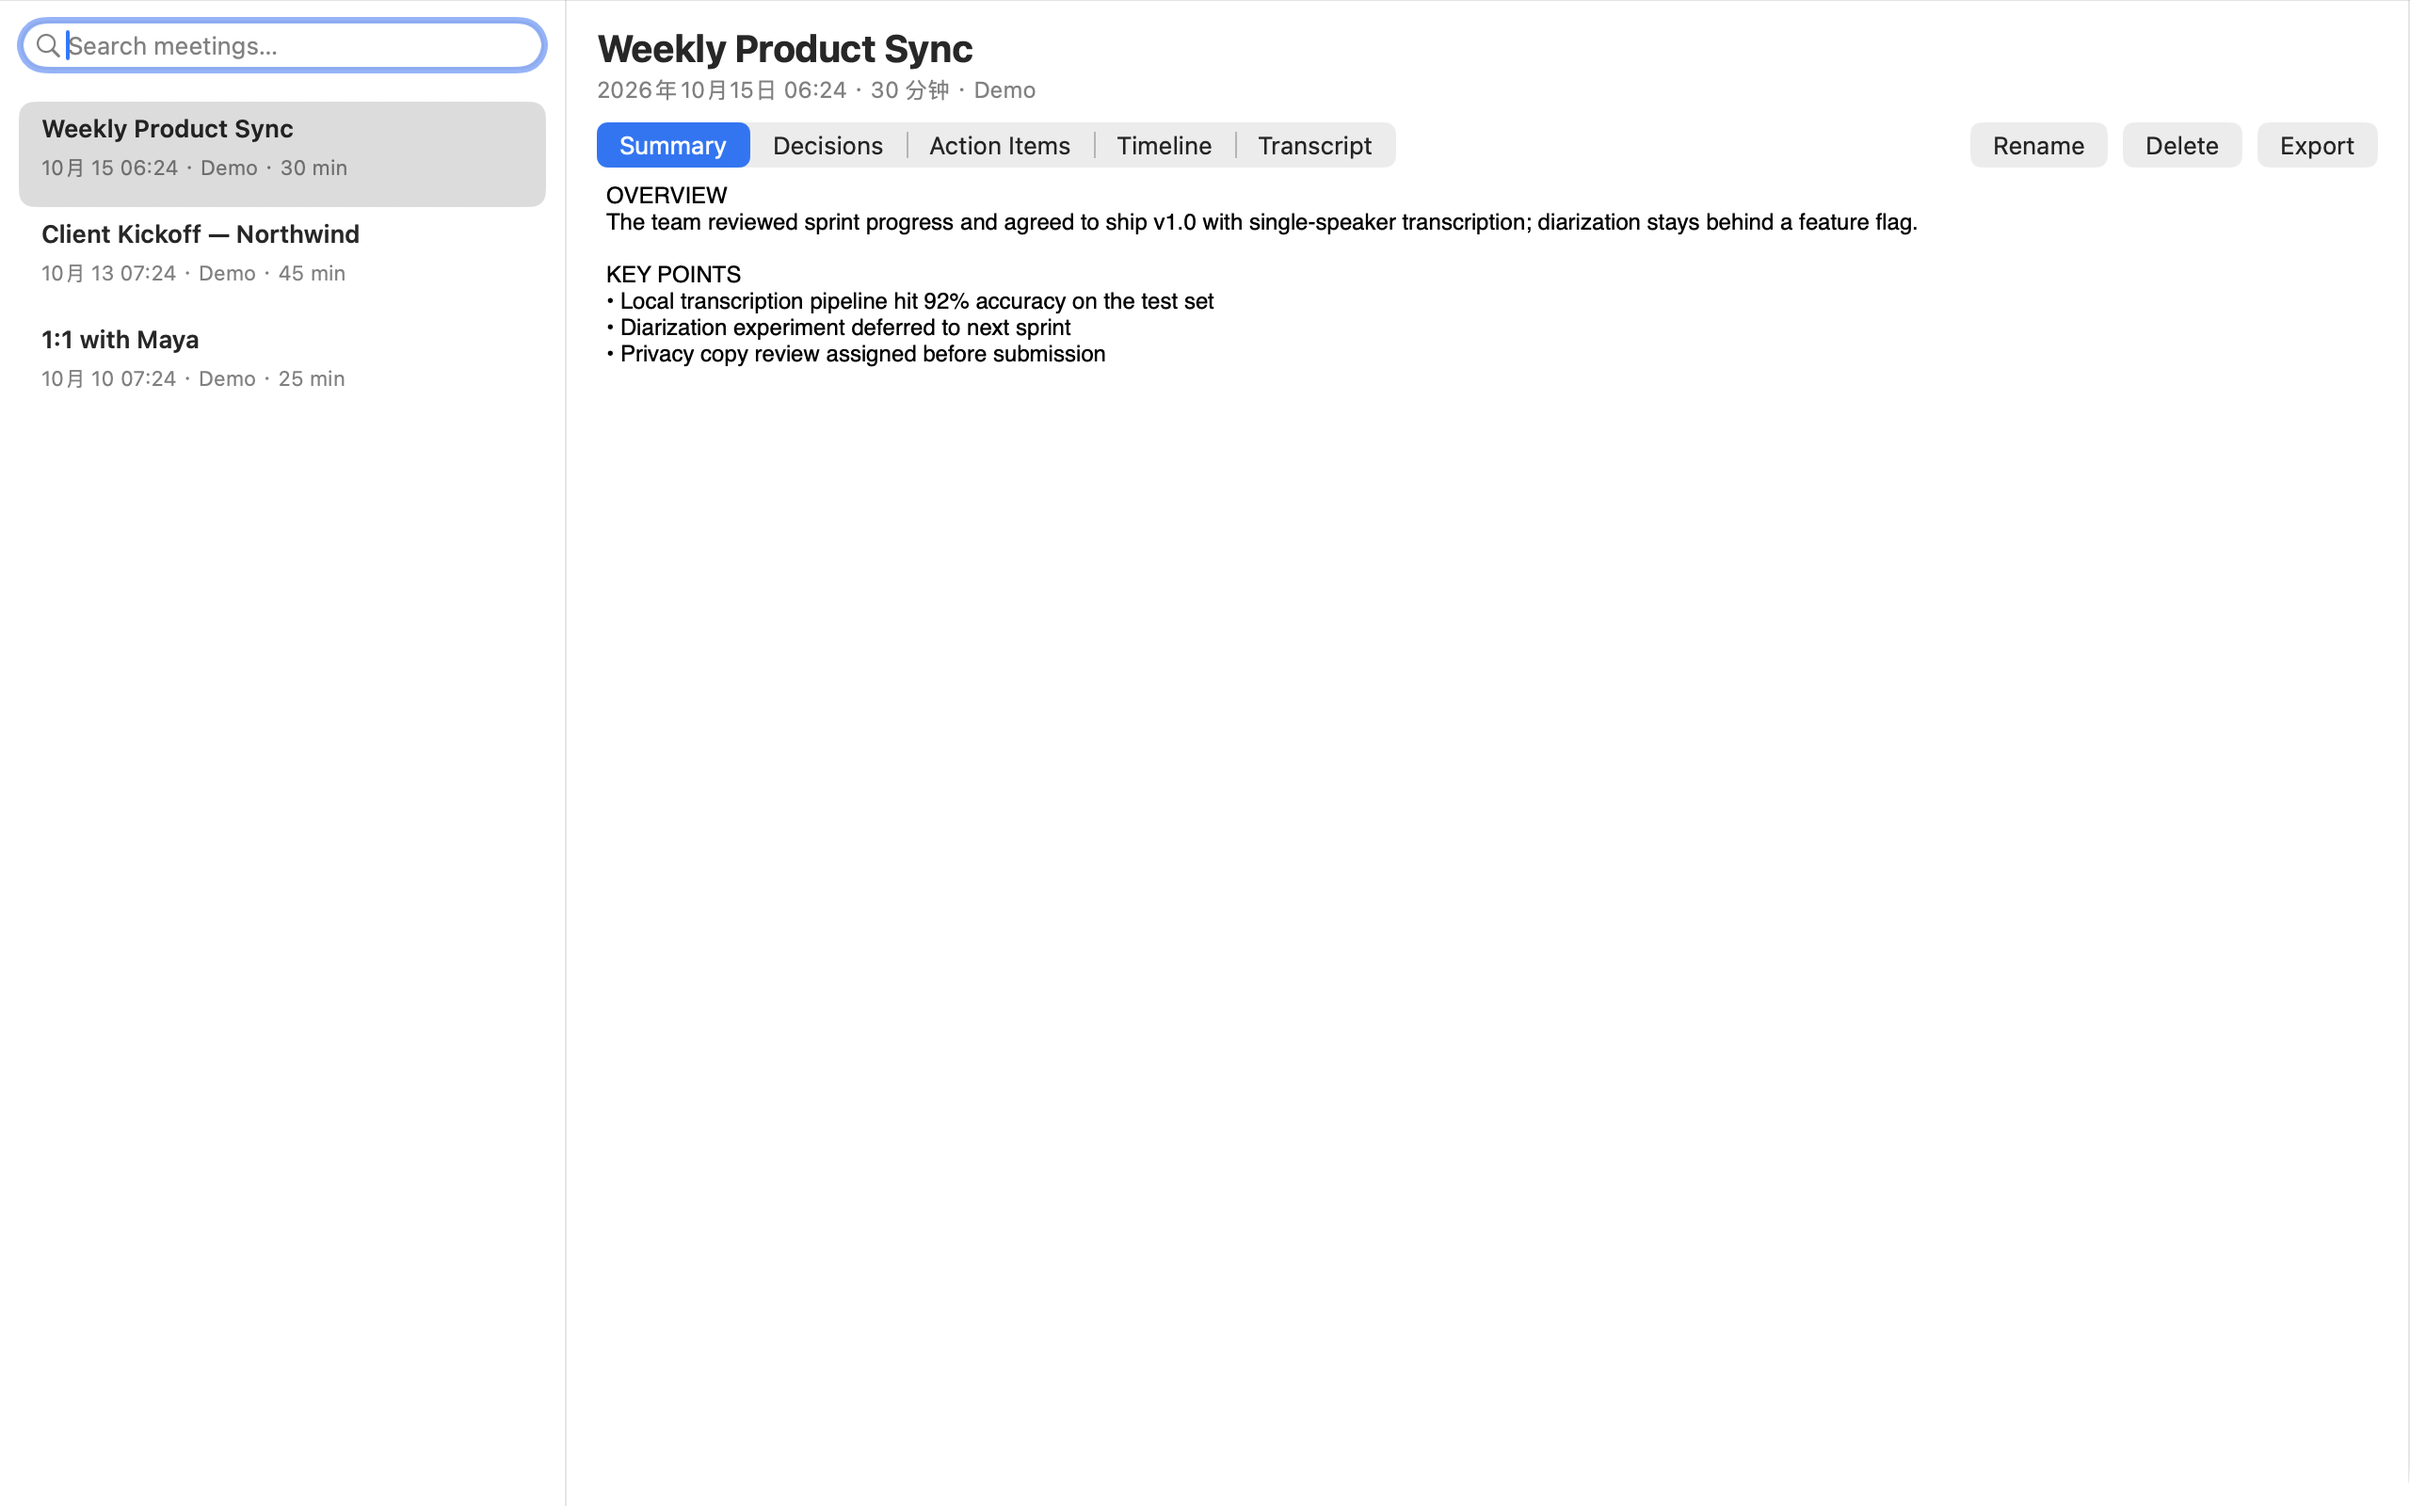
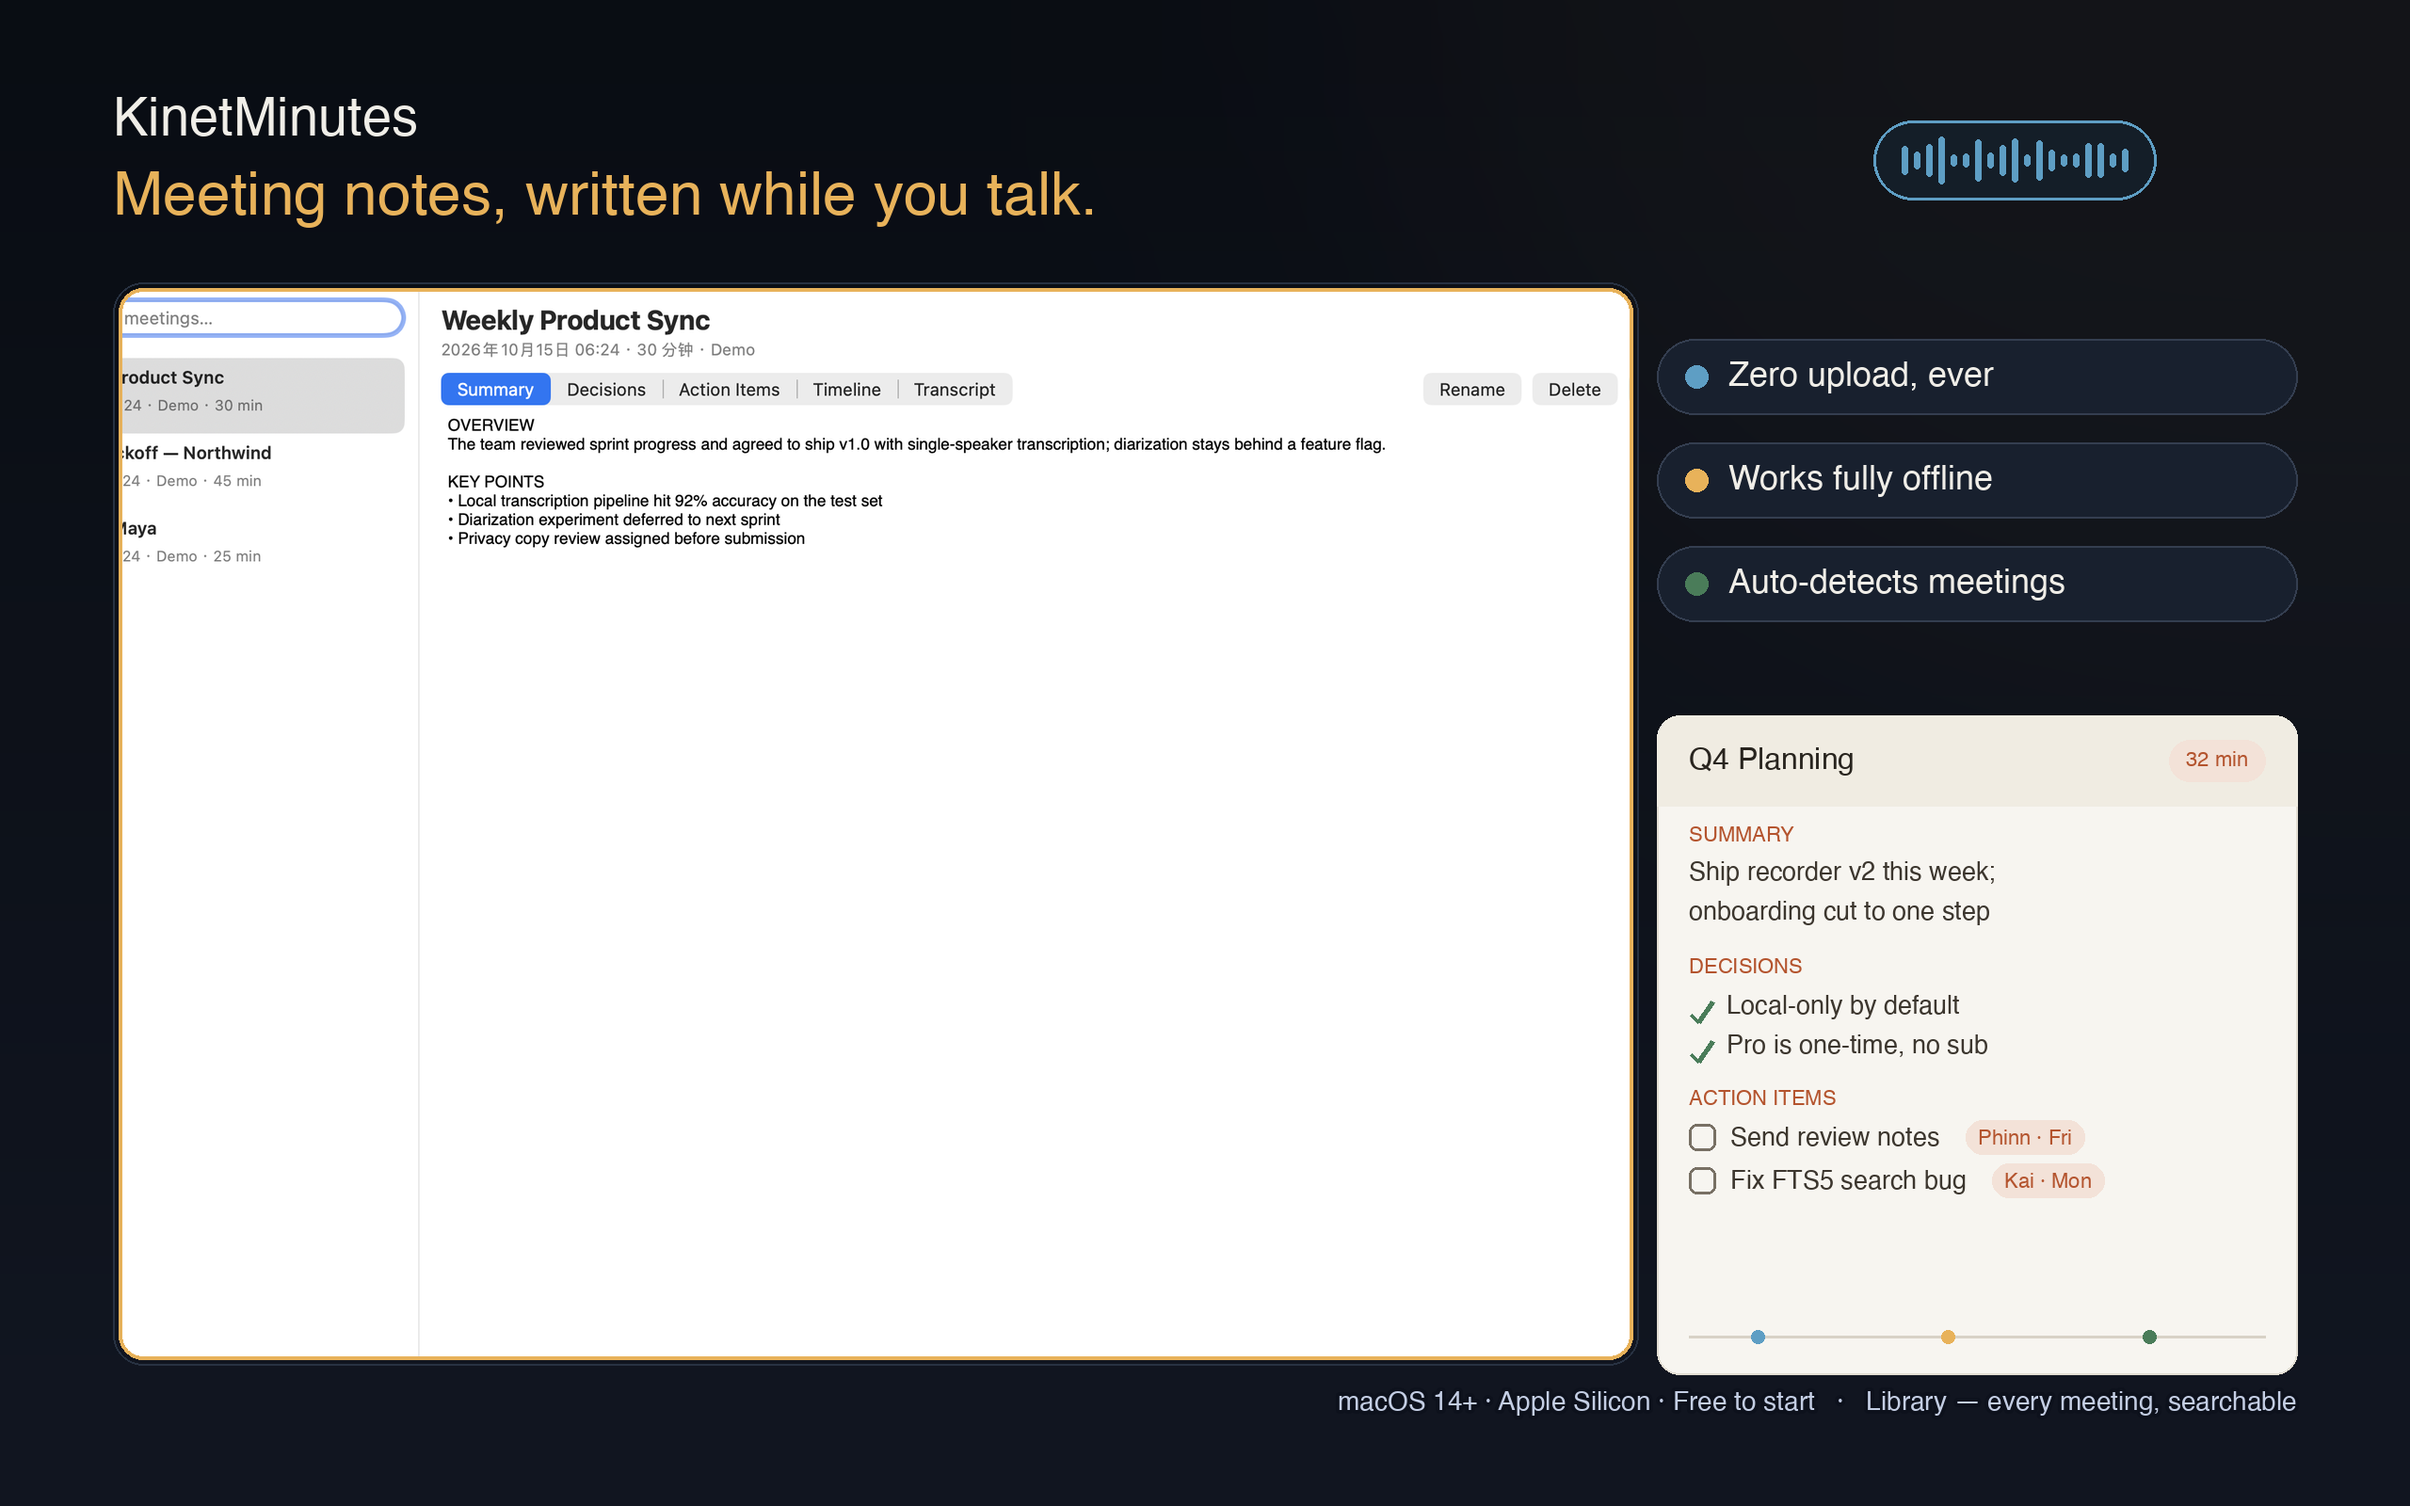
release: ASC screenshots re-skinned in landing-page dark style (4 locales, 2560x1600)
- tools/gen_asc_screenshots.py: PIL pipeline reusing gen_landing_creative.py
  visual (deep-ink gradient, amber ring frame, minutes card, wave ticks)
- auto-trim desktop background around raw app shots before framing
- en/zh-Hans/zh-Hant/ja 01-library.png regenerated, one per locale
- uploaded to ASC 1.0.1, resubmitted -> READY_FOR_REVIEW

diff --git a/tools/gen_asc_screenshots.py b/tools/gen_asc_screenshots.py
@@ -1,0 +1,218 @@
+#!/usr/bin/env python3
+"""KinetMinutes ASC 商店截图 2560×1600 — 用落地页同款视觉重绘
+深墨面板 + 顶部品牌/标语 + 真实 app 窗口截图(琥珀环框) + 右侧纪要卡 mock + 声波徽章
+输出 release/screenshots/{en,zh-Hans,zh-Hant,ja}/01-library.png(2560×1600 sRGB)
+用法: python3 tools/gen_asc_screenshots.py [en|zh-Hans|zh-Hant|ja|all]
+"""
+import os, sys
+from PIL import Image, ImageDraw, ImageFont
+
+BASE = os.path.dirname(os.path.dirname(os.path.abspath(__file__)))
+OUT = os.path.join(BASE, "release", "screenshots")
+
+INK = (13, 17, 26); INK_2 = (23, 30, 44)
+AMBER = (232, 178, 90); WAVE = (94, 158, 196)
+PAPER = (240, 238, 232); INK_SOFT = (150, 158, 175)
+TERRA = (180, 84, 46); TERRA_SOFT = (243, 226, 216)
+GREEN = (74, 124, 89)
+CARD_BG = (247, 245, 240)
+
+F_CN = "/System/Library/Fonts/Hiragino Sans GB.ttc"
+F_JP = "/System/Library/Fonts/Hiragino Sans GB.ttc"   # 日文也走 Hiragino(含日汉字形),避免 latin 豆腐块反向坑
+F_LAT = "/System/Library/Fonts/Helvetica.ttc"
+
+def font(size, latin=False):
+    paths = [F_LAT] if latin else [F_CN, F_JP, F_LAT]
+    for p in paths:
+        try: return ImageFont.truetype(p, size)
+        except Exception: continue
+    return ImageFont.load_default()
+
+def ink_bg(w, h):
+    im = Image.new("RGB", (w, h), INK)
+    d = ImageDraw.Draw(im)
+    for y in range(h):
+        t = y / h
+        d.line([(0, y), (w, y)], fill=tuple(int(INK[i] + (INK_2[i]-INK[i])*t) for i in range(3)))
+    glow = Image.new("RGB", (w, h), (0, 0, 0))
+    gd = ImageDraw.Draw(glow)
+    gd.ellipse([int(w*0.60), -int(h*0.35), int(w*1.25), int(h*0.45)], fill=(38, 30, 18))
+    glow = glow.filter(ImageFilter if False else __import__("PIL.ImageFilter", fromlist=["ImageFilter"]).GaussianBlur(220))
+    im = Image.blend(im, Image.composite(glow, im, Image.new("L", (w, h), 110)), 0.55)
+    return im
+
+def shot_capture(canvas, shot, box, radius=26, ring_w=4):
+    """圆角+描边裁切截图居中放入 box(等比留白填底色)"""
+    x0, y0, bw, bh = box
+    pad = 6
+    im = shot.convert("RGB")
+    ratio = max((bw-2*pad)/im.width, (bh-2*pad)/im.height)   # 等比填满 box(允许裁切溢出 box 内)
+    im = im.resize((int(im.width*ratio)+1, int(im.height*ratio)+1), Image.LANCZOS)
+    im = im.crop(((im.width-(bw-2*pad))//2, (im.height-(bh-2*pad))//2,
+                  (im.width-(bw-2*pad))//2+(bw-2*pad), (im.height-(bh-2*pad))//2+(bh-2*pad)))
+    mask = Image.new("L", (bw-2*pad, bh-2*pad), 0)
+    ImageDraw.Draw(mask).rounded_rectangle([0, 0, bw-2*pad-1, bh-2*pad-1], radius=radius, fill=255)
+    canvas.paste(im, (x0+pad, y0+pad), mask)
+    d = ImageDraw.Draw(canvas)
+    d.rounded_rectangle([x0+pad, y0+pad, x0+bw-pad, y0+bh-pad], radius=radius,
+                        outline=AMBER, width=ring_w)
+    d.rounded_rectangle([x0, y0, x0+bw, y0+bh], radius=radius+pad,
+                        outline=(40, 50, 66), width=2)
+
+def wave_badge(d, cx, cy, w, h, col=WAVE):
+    d.rounded_rectangle([cx-w//2, cy-h//2, cx+w//2, cy+h//2], radius=h//2,
+                        fill=(20, 30, 40), outline=col, width=3)
+    import random
+    rnd = random.Random(7)
+    x = cx - w//2 + 30
+    while x < cx + w//2 - 30:
+        bh = rnd.randint(10, h-26)
+        d.rounded_rectangle([x, cy-bh//2, x+6, cy+bh//2], radius=3, fill=col)
+        x += 13
+
+def minutes_card(canvas, x0, y0, w, h, T):
+    d = ImageDraw.Draw(canvas)
+    d.rounded_rectangle([x0, y0, x0+w, y0+h], radius=24, fill=CARD_BG,
+                        outline=(226, 221, 210), width=2)
+    d.rounded_rectangle([x0, y0, x0+w, y0+96], radius=24, fill=(240, 236, 226))
+    d.rectangle([x0, y0+70, x0+w, y0+96], fill=(240, 236, 226))
+    latin = T.get('latin', False)
+    d.text((x0+34, y0+48), T['card_title'], font=font(32, latin), fill=(40, 36, 30), anchor="lm")
+    dw = d.textlength(T['card_dur'], font=font(22, latin))
+    d.rounded_rectangle([x0+w-34-dw-36, y0+26, x0+w-34, y0+70], radius=22, fill=TERRA_SOFT)
+    d.text((x0+w-52, y0+48), T['card_dur'], font=font(22, latin), fill=TERRA, anchor="rm")
+    ix = x0 + 34; pad = 34
+    y = y0 + 128
+    def label(txt, yy):
+        d.text((ix, yy), txt, font=font(22, latin), fill=TERRA, anchor="lm")
+        return yy + 40
+    def lines(arr, yy):
+        for s in arr:
+            d.text((ix, yy), s, font=font(27, latin), fill=(60, 54, 46), anchor="lm"); yy += 42
+        return yy
+    y = label("SUMMARY" if latin else T['lbl_sum'], y)
+    y = lines(T['card_sum'], y); y += 16
+    y = label("DECISIONS" if latin else T['lbl_dec'], y)
+    for s in T['dec']:
+        d.line([(ix+2, y+10), (ix+10, y+18), (ix+25, y-4)], fill=GREEN, width=5)
+        d.text((ix+40, y+2), s, font=font(27, latin), fill=(60, 54, 46), anchor="lm"); y += 42
+    y += 16
+    y = label("ACTION ITEMS" if latin else T['lbl_act'], y)
+    for txt, owner in T['act']:
+        d.rounded_rectangle([ix, y-14, ix+28, y+14], radius=8, outline=(120, 112, 100), width=3)
+        d.text((ix+44, y+2), txt, font=font(27, latin), fill=(60, 54, 46), anchor="lm")
+        tw = d.textlength(txt, font=font(27, latin))
+        ow = d.textlength(owner, font=font(22, latin))
+        while tw + ow + 100 > w - pad*2 - 44 and len(txt) > 4:
+            txt = txt[:-1]; tw = d.textlength(txt + "…", font=font(27, latin))
+        if tw + ow + 100 > w - pad*2 - 44:
+            txt += "…"
+            d.text((ix+44, y+2), txt, font=font(27, latin), fill=(60, 54, 46), anchor="lm")
+        bx = min(int(ix + 44 + tw + 28), x0 + w - pad - ow - 26)
+        d.rounded_rectangle([bx, y-18, bx+ow+26, y+18], radius=18, fill=TERRA_SOFT)
+        d.text((bx+13, y+2), owner, font=font(22, latin), fill=TERRA, anchor="lm")
+        y += 46
+    # 底部时间轴小条
+    ty = y0 + h - 40
+    d.line([(ix, ty), (x0+w-pad, ty)], fill=(216, 210, 198), width=3)
+    for frac, col in ((0.12, WAVE), (0.45, AMBER), (0.8, GREEN)):
+        px = ix + int((x0+w-pad-ix) * frac)
+        d.ellipse([px-7, ty-7, px+7, ty+7], fill=col)
+
+TEXTS = {
+ 'en': dict(latin=True, brand="KinetMinutes",
+    sub="Meeting notes, written while you talk.",
+    chips=["Zero upload, ever", "Works fully offline", "Auto-detects meetings"],
+    shot_cap="Library — every meeting, searchable",
+    card_title="Q4 Planning", card_dur="32 min",
+    card_sum=("Ship recorder v2 this week;", "onboarding cut to one step"),
+    dec=["Local-only by default", "Pro is one-time, no sub"],
+    act=[("Send review notes", "Phinn · Fri"), ("Fix FTS5 search bug", "Kai · Mon")],
+    foot="macOS 14+ · Apple Silicon · Free to start",
+    lbl_sum="SUMMARY", lbl_dec="DECISIONS", lbl_act="ACTION ITEMS"),
+ 'zh-Hans': dict(latin=False, brand="KinetMinutes",
+    sub="你只管开会，纪要它来写。",
+    chips=["录音不出你的 Mac", "全程离线可用", "自动检测会议开录"],
+    shot_cap="会议库 — 全部会议，全文可搜",
+    card_title="Q4 规划会", card_dur="32 分钟",
+    card_sum=("录制器 v2 本周上线；", "引导页砍到一步"),
+    dec=["默认纯本地运行", "Pro 买断制，无订阅"],
+    act=[("周五前发审核材料", "沈 · 周五"), ("修复 FTS5 搜索", "凯 · 周一")],
+    foot="macOS 14+ · Apple Silicon · 免费开始",
+    lbl_sum="摘要", lbl_dec="决议", lbl_act="待办"),
+ 'zh-Hant': dict(latin=False, brand="KinetMinutes",
+    sub="你只管開會，紀要它來寫。",
+    chips=["錄音不出你的 Mac", "全程離線可用", "自動偵測會議開錄"],
+    shot_cap="會議庫 — 全部會議，全文可搜",
+    card_title="Q4 規劃會", card_dur="32 分鐘",
+    card_sum=("錄製器 v2 本週上線；", "引導頁砍到一步"),
+    dec=["預設純本機執行", "Pro 買斷制，無訂閱"],
+    act=[("週五前寄審核材料", "沈 · 週五"), ("修復 FTS5 搜尋", "凱 · 週一")],
+    foot="macOS 14+ · Apple Silicon · 免費開始",
+    lbl_sum="摘要", lbl_dec="決議", lbl_act="待辦"),
+ 'ja': dict(latin=False, brand="KinetMinutes",
+    sub="話しながら、議事録ができる。",
+    chips=["録音は Mac の外に出ない", "完全オフライン動作", "会議を自動検出して録音"],
+    shot_cap="ライブラリ — 全記録を全文検索",
+    card_title="Q4 企画会議", card_dur="32 分",
+    card_sum=("レコーダー v2 を今週公開；", "オンボーディングを1ステップに"),
+    dec=["完全ローカル動作", "Pro は買い切り、サブスク無し"],
+    act=[("金曜までに審査資料を送る", "沈 · 金"), ("FTS5 検索を修正", "カイ · 月")],
+    foot="macOS 14+ · Apple Silicon · 無料で開始",
+    lbl_sum="要約", lbl_dec="決定事項", lbl_act="アクション"),
+}
+
+def trim_shot(shot):
+    """裁掉截图四周的桌面背景/空白(以角落像素为基准色找 bbox)"""
+    import PIL.ImageChops as IC
+    rgb = shot.convert("RGB")
+    bg = Image.new("RGB", rgb.size, rgb.getpixel((2, 2)))
+    diff = IC.difference(rgb, bg).convert("L")
+    bbox = diff.point(lambda p: 255 if p > 12 else 0).getbbox()
+    if bbox:
+        # 收 4px,避免残留阴影边
+        x0, y0, x1, y1 = bbox
+        return rgb.crop((x0+4, y0+4, x1-4, y1-4))
+    return rgb
+
+def gen(loc):
+    T = TEXTS[loc]
+    W, H = 2560, 1600
+    im = ink_bg(W, H)
+
+    # 顶部:品牌 + 声波徽章
+    d = ImageDraw.Draw(im)
+    d.text((120, 128), T['brand'], font=font(56, True), fill=PAPER, anchor="lm")
+    d.text((120, 210), T['sub'], font=font(64, T.get('latin', False)), fill=AMBER, anchor="lm")
+    wave_badge(d, W - 420, 170, 300, 84)
+
+    # 主截图区:左侧 app 真窗口(带窗口栏弧角),右侧纪要卡
+    shot = trim_shot(Image.open(os.path.join(OUT, loc, "raw-library.png")))
+    box = (120, 300, 1620, 1150)
+    shot_capture(im, shot, box)
+
+    x, w = 1760, 680
+    d = ImageDraw.Draw(im)
+    for i, c in enumerate(T['chips']):
+        chip(d, x, 360 + i*110, w, c, T.get('latin', False), dot=[WAVE, AMBER, GREEN][i])
+    minutes_card(im, x, 760, w, 700, T)
+
+    d = ImageDraw.Draw(im)
+    d.text((W - 120, 1490), T['foot'] + "   ·   " + T['shot_cap'],
+           font=font(28, T.get('latin', False)), fill=(196, 206, 228), anchor="rm",
+           stroke_width=4, stroke_fill=(13, 17, 28))
+    out = os.path.join(OUT, loc, "01-library.png")
+    im.save(out)
+    print("saved", out)
+
+def chip(d, x, y, w, text, latin, dot=WAVE):
+    d.rounded_rectangle([x, y, x+w, y+80], radius=40, fill=(24, 32, 46), outline=(52, 62, 80), width=2)
+    d.ellipse([x+30, y+28, x+54, y+52], fill=dot)
+    d.text((x+76, y+40), text, font=font(36, latin), fill=PAPER, anchor="lm")
+
+if __name__ == "__main__":
+    which = sys.argv[1] if len(sys.argv) > 1 else 'all'
+    locs = {'all': ['en', 'zh-Hans', 'zh-Hant', 'ja']}.get(which, [which])
+    for loc in locs:
+        gen(loc)
+    print("done")
